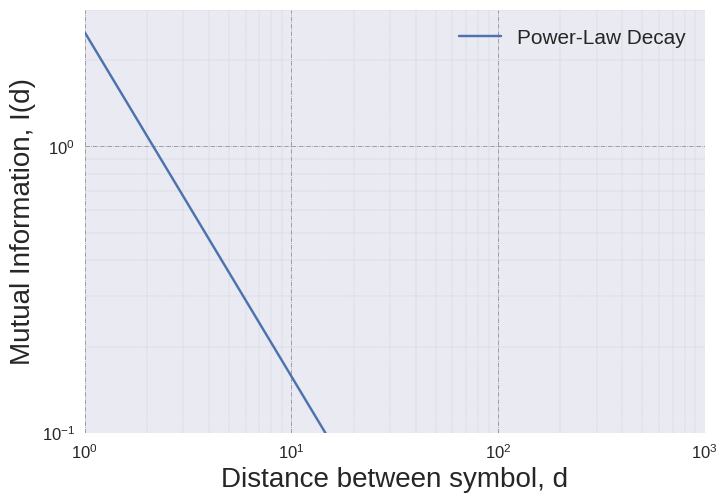
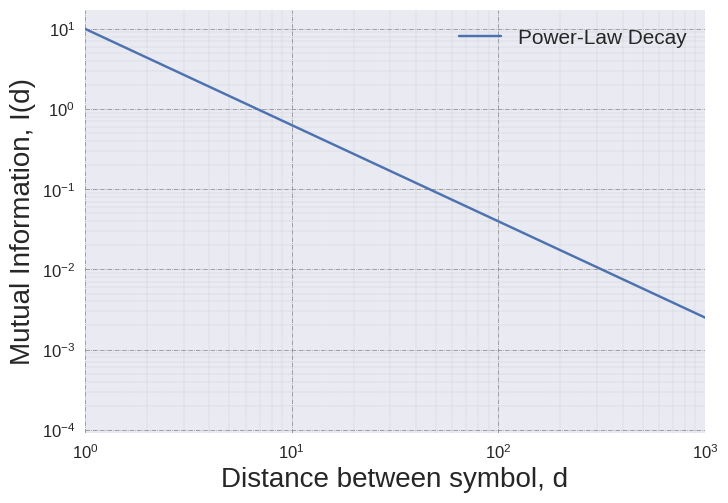
Up

diff --git a/paper_related/framework.py b/paper_related/framework.py
@@ -22,8 +22,8 @@ with plt.style.context(('seaborn')):
 
     ##########################################################################################################################
 
-    a = 2.5
-    alpha = 1.2
+    a = 10
+    alpha = 0.2
     y = a*pow(x,-alpha)
     p2 = plt.loglog(x, y, label="Power-Law Decay")
 
@@ -55,8 +55,8 @@ with plt.style.context(('seaborn')):
     plt.grid(which='major', linestyle='-.', linewidth='0.5', color='grey')
     plt.grid(which='minor', linestyle=':', linewidth='0.2', color='grey')
     ax.set_xlim(1.0, 1000.0)
-    ax.set_ylim(0.1, 3)
+    #ax.set_ylim(0.1, 3)
     ax.set_xlabel('Distance between symbol, d', fontsize=20)
     ax.set_ylabel('Mutual Information, I(d)', fontsize=20)
-    plt.savefig('pl_deep', bbox_extra_artists=(lgd,), bbox_inches='tight')
+    plt.savefig('pl_shallow', bbox_extra_artists=(lgd,), bbox_inches='tight')
     plt.show()
